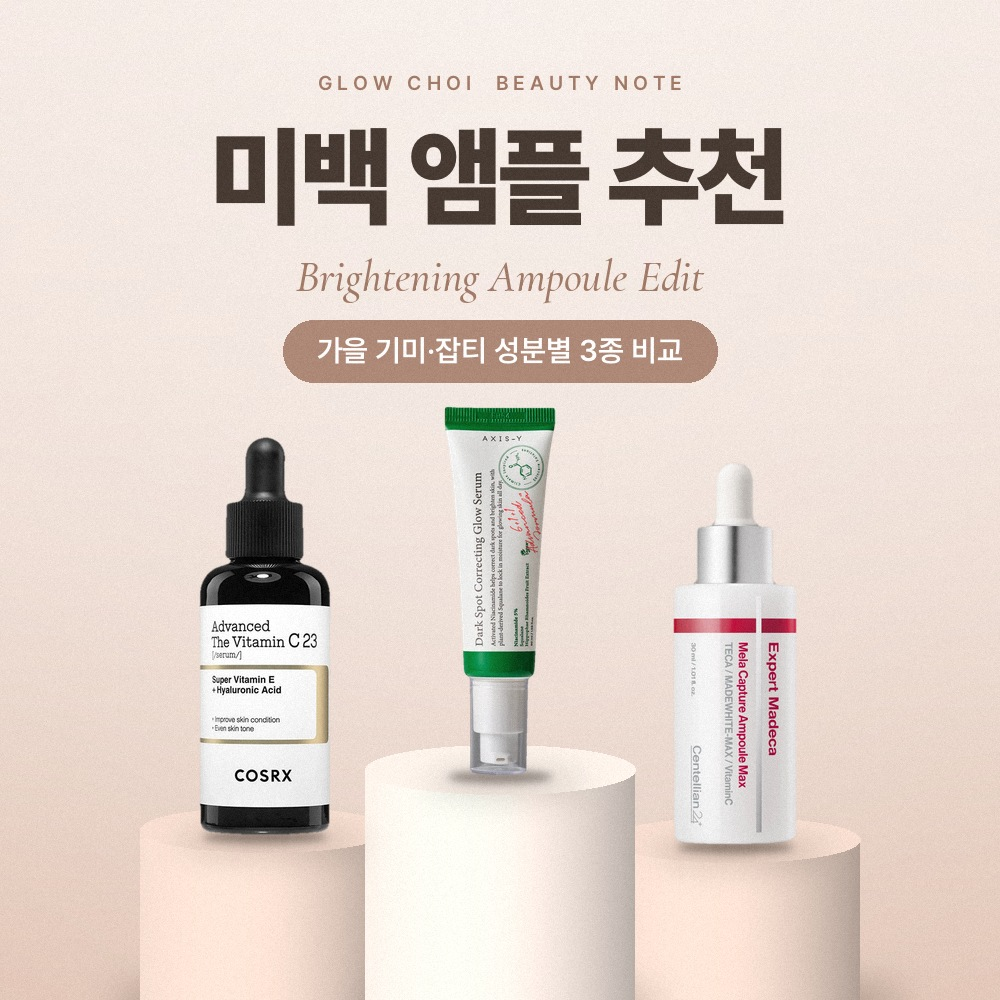
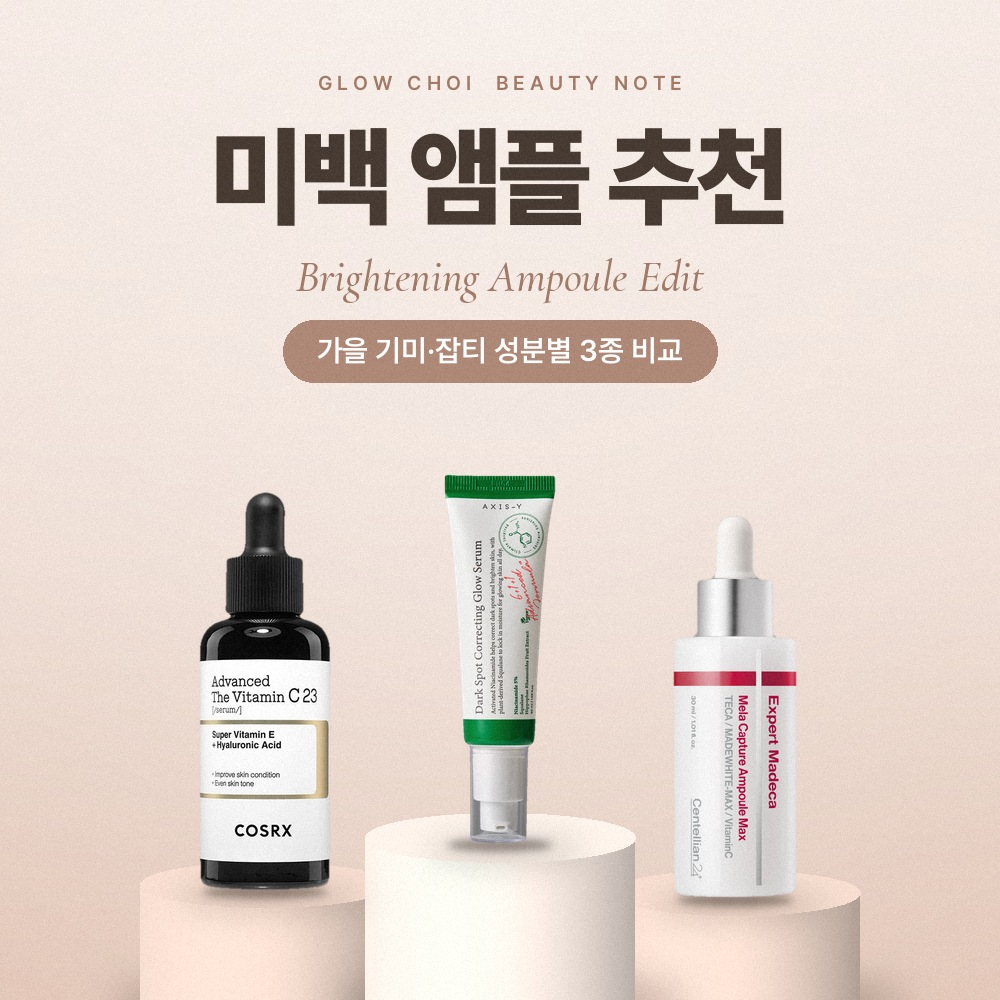
글로우 초이: 시상대 썸네일 받침대를 낮춰 제목과 제품 사이 여백 확보
Claude-Session: https://claude.ai/code/session_01F7XycGiYiCW7VkKdv14nxs

Changed region(s): [[0.186, 0.403, 0.868, 0.93]]

diff --git a/tools/glowchoi/thumbs.py b/tools/glowchoi/thumbs.py
@@ -190,9 +190,10 @@ def podium(cuts: list, title: str, sub: str, en: str = "Brightening Ampoule Edit
     tracked(d, (500, 112), title, pre(108, "Black"), INK, -4, "c")
     tracked(d, (500, 250), en, serif_en(44, 500), label_col, 0, "c")
     pill(d, 500, 320, sub, pre(30, "SemiBold"), "#FFFFFF", MOCHA)
-    b1 = pedestal(im, 265, 830, 250, 170, ped_side)
-    b3 = pedestal(im, 735, 840, 250, 160, ped_side)
-    b2 = pedestal(im, 500, 770, 270, 240, ped_mid)
+    # 받침대를 낮춰 제품과 위 글자 사이에 80px 이상 여백을 둔다
+    b1 = pedestal(im, 265, 885, 250, 115, ped_side)
+    b3 = pedestal(im, 735, 893, 250, 107, ped_side)
+    b2 = pedestal(im, 500, 838, 270, 162, ped_mid)
     stand(im, cuts[0], 265, b1 + 6, 175, 400)
     stand(im, cuts[2], 735, b3 + 6, 175, 385)
     stand(im, cuts[1], 500, b2 + 6, 150, 370)
